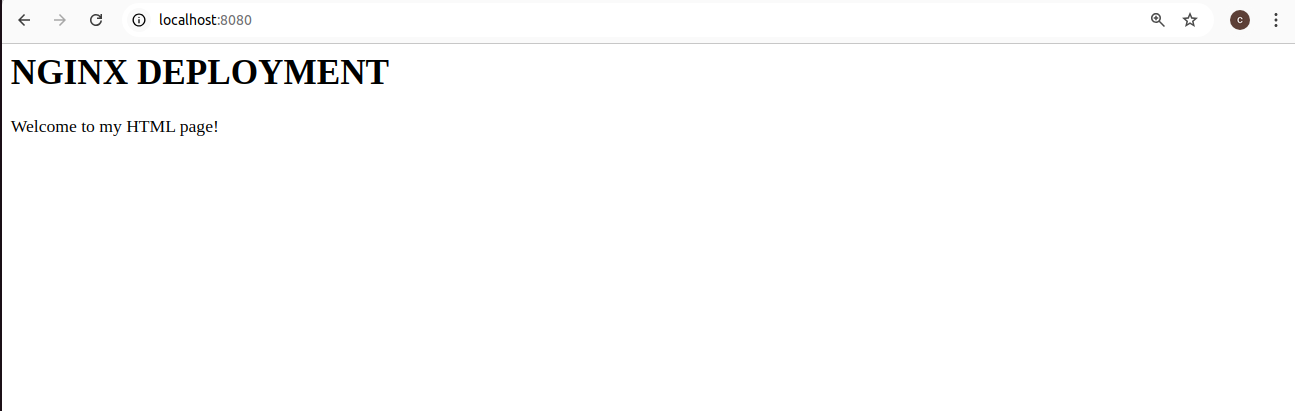
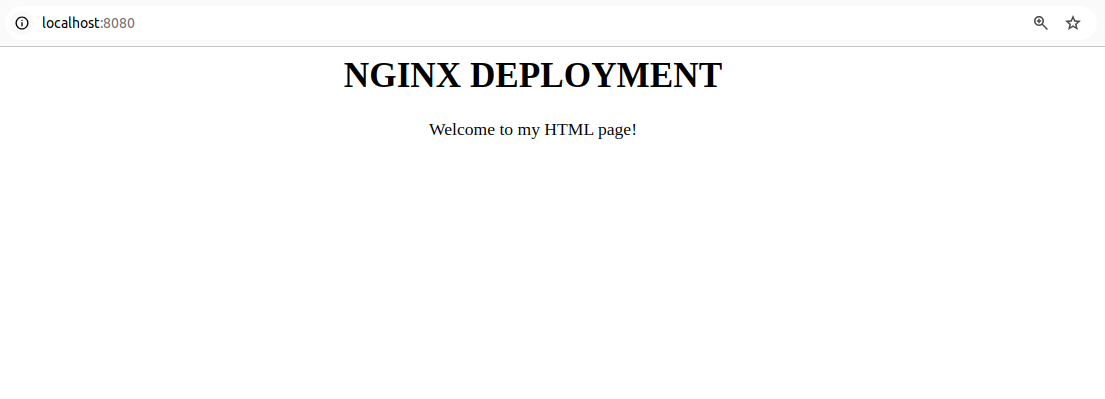
docs: update README.md

Changed region(s): [[0.0, 0.0301, 1.0, 0.2406], [0.3692, 0.3008, 0.5846, 0.3609], [0.0, 0.2707, 0.1846, 0.3308]]

diff --git a/README.md b/README.md
@@ -15,7 +15,7 @@ data:
   index.html: |
     <html>
       <head><title>My HTML page</title></head>
-      <body>
+      <body align="center">
         <h1>NGINX DEPLOYMENT</h1>
         <p>Welcome to my HTML page!</p>
       </body>
